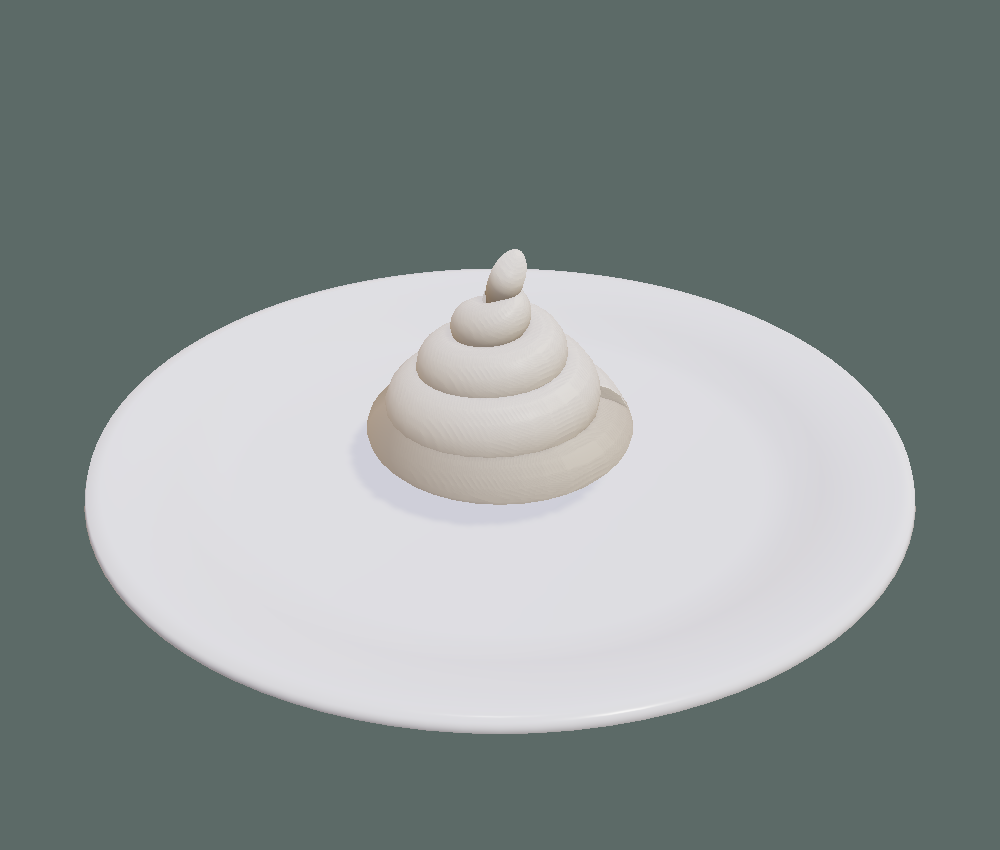
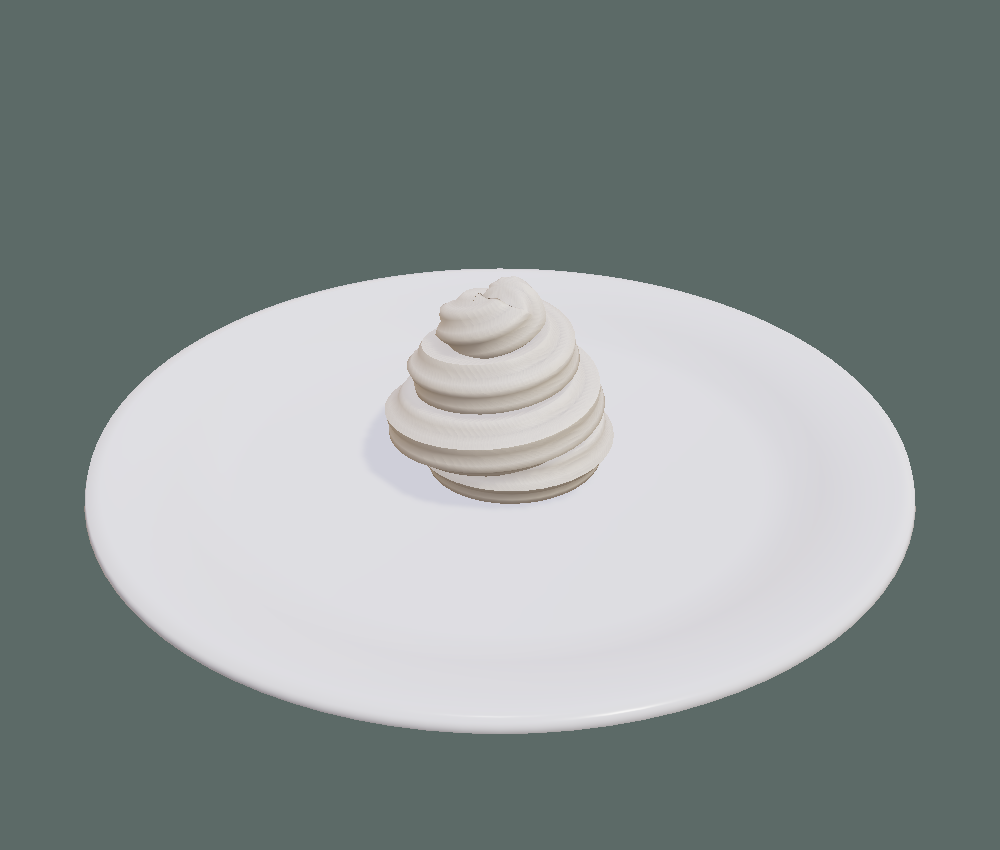
Make soft serve extrude, stack and slump realistically
The first version scaled a finished swirl up under the nozzle. This
makes the pour behave like a real machine and lets pours stack.

Extrusion: the swirl is a star-ridged rope of constant cross-section,
laid at constant flow along a flat base spiral and climbing coils. The
plate is raised to about 1 cm under the nozzle and circled beneath it,
then drops so the rope stretches and necks off into a peak. The lever
springs back and a motor hum plays while pouring.

Stacking: a new pour tops the most recent stack (up to 3 layers) unless
it is full or covered. Upper layers drape over the layers below and
continue their spiral. Each layer uses the same rope length as the base,
so every pour logged as "1 swirl" is the same amount. A swirl's layer is
derived from its saved position (exactly on an earlier swirl), so the
research data format is unchanged and reloads rebuild the same stack;
moves and removals re-derive layers the same way. The dispensing head
was raised 4 cm so a full stack clears the nozzle.

Slump: stacks sag down and spread out under added layers, preserving
volume and keeping layers in contact, as an overdamped creep. Finished
swirls also lean on their base when the plate accelerates (damped
shear, so the base stays on the plate).

Fixes from a critical review of the physics: removed an end-of-pour
plate whip, kept the stream attached through neck-off, replaced a rigid
tilt that sank bases into the plate, filtered acceleration spikes from
[…]

Changed region(s): [[0.341, 0.2753, 0.651, 0.6118], [0.527, 0.3671, 0.558, 0.3976]]

diff --git a/web/src/app.js b/web/src/app.js
@@ -1,4 +1,4 @@
-import {buildHall,makePlate,makeSoftServe,stationX} from './world.js';
+import {buildHall,makePlate,softServe,stationX} from './world.js';
 import {ResearchSession,download} from './research.js';
 import {Placement,sampleShape} from './placement.js';
 const B=BABYLON,V=(x,y,z)=>new B.Vector3(x,y,z),$=id=>document.getElementById(id);
@@ -17,12 +17,24 @@ class BuffetGame {
     const sun=new B.DirectionalLight('Afternoon sun',V(-.45,-1,.5),this.scene);sun.position=V(3,8,-3);sun.diffuse=new B.Color3(1,.95,.84);sun.intensity=2;
     this.sun=sun;sun.shadowFrustumSize=2.6;sun.autoUpdateExtends=false;sun.shadowMinZ=.1;sun.shadowMaxZ=20;
     this.shadows=new B.ShadowGenerator(2048,sun);this.shadows.usePercentageCloserFiltering=true;this.shadows.filteringQuality=B.ShadowGenerator.QUALITY_MEDIUM;this.shadows.bias=.00001;this.shadows.normalBias=.0001;this.shadows.setDarkness(.2);
-    const hall=buildHall(this.scene,this.foods.length);this.rig=new B.TransformNode('Participant plate rig',this.scene);this.rig.position.x=stationX(0);this.plate=makePlate(this.scene);this.plate.parent=this.rig;this.plate.position=V(0,.93,-.59);this.plate.setEnabled(false);
+    const hall=buildHall(this.scene,this.foods.length);this.rig=new B.TransformNode('Participant plate rig',this.scene);this.rig.position.x=stationX(0);this.plate=makePlate(this.scene);this.plate.parent=this.rig;this.shadows.addShadowCaster(this.plate);this.plate.position=V(0,.93,-.59);this.plate.setEnabled(false);
     const post=new B.FxaaPostProcess('Antialiasing',1,this.camera);
-    this.engine.runRenderLoop(()=>this.scene.render());window.addEventListener('resize',()=>{this.engine.resize();this.fitCamera();});
+    this.engine.runRenderLoop(()=>this.scene.render());
+    // Soft serve leans on its base when the plate accelerates: a heavily damped spring per swirl
+    // (~4 Hz, zeta .9) driving a shear, so the top lags while the base stays on the plate.
+    let lastPlate=V(0,0,0),samples=0;const plateAt=V(0,0,0),plateVelocity=V(0,0,0),plateAccel=V(0,0,0),step=V(0,0,0),local=V(0,0,0),toLocal=new B.Matrix();
+    this.scene.onBeforeRenderObservable.add(()=>{
+      const elapsed=this.engine.getDeltaTime()/1000,dt=Math.min(.05,Math.max(1/240,elapsed));this.plate.computeWorldMatrix(true).getTranslationToRef(plateAt);plateAt.subtractToRef(lastPlate,step);lastPlate.copyFrom(plateAt);
+      // Teleports and frame hitches restart the estimate instead of producing a spike.
+      if(elapsed>.1||step.length()>.25){samples=0;plateVelocity.setAll(0);plateAccel.setAll(0);}
+      else{step.scaleInPlace(1/dt);if(samples>=1){const a=step.subtract(plateVelocity).scaleInPlace(1/dt);if(a.length()>30)a.normalize().scaleInPlace(30);if(samples>=2)B.Vector3.LerpToRef(plateAccel,a,1-Math.exp(-dt/.03),plateAccel);}plateVelocity.copyFrom(step);samples++;}
+      for(const p of this.portions){const w=p.wobble;if(!w)continue;B.Matrix.RotationYToRef(-p.angle,toLocal);B.Vector3.TransformNormalToRef(plateAccel,toLocal,local);
+        for(let n=Math.ceil(dt*480),h=dt/n;n>0;n--){w.vx+=(-local.x*1.9-630*w.x-45*w.vx)*h;w.x+=w.vx*h;w.vz+=(-local.z*1.9-630*w.z-45*w.vz)*h;w.z+=w.vz*h;}
+        w.x=Math.max(-.08,Math.min(.08,w.x));w.z=Math.max(-.08,Math.min(.08,w.z));w.shear.setRowFromFloats(1,w.x,1,w.z,0);w.mesh.setPreTransformMatrix(w.shear);}
+    });window.addEventListener('resize',()=>{this.engine.resize();this.fitCamera();});
     for(let i=0;i<this.foods.length;i++){
       const f=this.foods[i];$('loading-text').textContent=`Preparing ${f.name.toLowerCase()} · ${i+1} of ${this.foods.length}`;
-      if(f.dispenser){this.swirl??=makeSoftServe(this.scene);this.dispensers.set(i,hall.dispenser(stationX(i),i,f.name));continue;}
+      if(f.dispenser){if(!this.softServe){this.softServe=softServe(this.scene);this.softServe.layer(this.softServe.layers-1);await this.softServe.material.forceCompilationAsync(this.softServe.layer(0).template);}this.dispensers.set(i,hall.dispenser(stationX(i),i,f.name));continue;}
       const model=await B.LoadAssetContainerAsync(`assets/food/${f.id}.glb`,this.scene);this.models.set(f.id,model);
       const station=new B.TransformNode(f.name+' station',this.scene);station.position=V(stationX(i),.946,0);
       for(let k=0;k<(f.id==='pizza'?4:6);k++){const root=this.spawn(f.id);root.parent=station;root.position=V((k%3-1)*.139,0,(Math.floor(k/3)-.5)*.17);root.rotation.y=k%2?.2:-.15;for(const mesh of root.getChildMeshes())mesh.metadata={station:i};}
@@ -30,12 +42,13 @@ class BuffetGame {
       hall.label(f.name,[stationX(i),.946,-.348],.221,.075,true);
     }
     for(const record of this.research.data.portions){const f=this.foods.find(f=>f.id===record.foodId);if(!f)throw new Error('A saved dish is missing from this study menu.');this.createPortion(f,record,false);}
+    if(this.settleStacks())this.placement.rebuild(this.portions);
     this.bind();this.fitCamera();await this.scene.whenReadyAsync();$('loading').hidden=true;
     if(this.finished){this.started=true;this.plate.setEnabled(true);await this.moveView(true,false);this.showCompletion();}else if(this.debugStation()!==null)this.begin(this.debugStation());else this.welcome();this.refresh();
     // Read-only diagnostics for repeatable canvas and placement checks.
     Object.defineProperty(window,'buffet',{value:{snapshot:()=>({station:this.station,started:this.started,moving:this.moving,pouring:!!this.pouring,plateView:this.plateView,finished:this.finished,selected:this.selected?.portionId,session:structuredClone(this.research.data),saved:this.research.saved,saveError:this.research.error,engine:'Babylon.js '+B.Engine.Version,meshes:this.scene.meshes.length,fps:this.engine.getFps(),portions:this.portions.map(p=>({id:p.portionId,food:p.foodId,x:p.x,y:p.y,z:p.z,extent:Math.max(...p.shape.map(s=>Math.hypot(p.x+s.ix*.003,p.z+s.iz*.003)))}))}),point:(name,index=0)=>this.project(name==='dish'?V(stationX(this.station),.97,0):name==='portion'&&this.portions[index]?this.portions[index].root.getAbsolutePosition().add(V(0,.025,0)):this.plate.getAbsolutePosition().add(V(0,.02,0)))}});
   }
-  spawn(id){const root=new B.TransformNode(id+' portion',this.scene);if(this.foods.find(f=>f.id===id)?.dispenser){const swirl=this.swirl.clone(id+' swirl');swirl.setEnabled(true);swirl.parent=root;swirl.isPickable=true;swirl.receiveShadows=true;this.shadows.addShadowCaster(swirl);return root;}const instance=this.models.get(id).instantiateModelsToScene(n=>n+' copy',false,{doNotInstantiate:true});for(const node of instance.rootNodes)node.parent=root;for(const mesh of root.getChildMeshes()){mesh.isPickable=true;mesh.receiveShadows=true;this.shadows.addShadowCaster(mesh);}return root;}
+  spawn(id,layer=0){const root=new B.TransformNode(id+' portion',this.scene);if(this.foods.find(f=>f.id===id)?.dispenser){const swirl=this.softServe.layer(layer).template.clone(id+' swirl');swirl.setEnabled(true);swirl.parent=root;swirl.isPickable=true;swirl.receiveShadows=true;this.shadows.addShadowCaster(swirl);return root;}const instance=this.models.get(id).instantiateModelsToScene(n=>n+' copy',false,{doNotInstantiate:true});for(const node of instance.rootNodes)node.parent=root;for(const mesh of root.getChildMeshes()){mesh.isPickable=true;mesh.receiveShadows=true;this.shadows.addShadowCaster(mesh);}return root;}
   project(point){const rect=this.canvas.getBoundingClientRect(),p=B.Vector3.Project(point,B.Matrix.Identity(),this.scene.getTransformMatrix(),this.camera.viewport.toGlobal(this.engine.getRenderWidth(),this.engine.getRenderHeight()));return {x:rect.x+p.x/this.engine.getRenderWidth()*rect.width,y:rect.y+p.y/this.engine.getRenderHeight()*rect.height};}
   fitCamera(){const aspect=this.canvas.clientWidth/this.canvas.clientHeight;this.camera.fov=2*Math.atan(Math.tan(.42)*Math.max(1,.85/aspect));if(!this.started){this.camera.position=V(0,1,0).add(V(0,4.1,-7.5).scale(Math.max(1,1.5/Math.max(.85,aspect))));this.camera.setTarget(V(0,1,0));}else if(this.plateView&&!this.moving){const pose=this.platePose(this.camera.fov,aspect);this.camera.position=pose.target;this.look=pose.look;this.camera.setTarget(this.look);}}
   get current(){return this.foods[this.station];}
@@ -61,37 +74,84 @@ class BuffetGame {
   debugStation(){const q=new URLSearchParams(location.search);if(!q.has('debug'))return null;const s=q.get('station')??'',i=this.foods.findIndex(f=>f.id===s);return i>=0?i:Math.max(0,Math.min(this.foods.length-1,(parseInt(s,10)||1)-1));}
   async begin(jump=null){if(this.started)return;this.close();this.started=true;this.moving=true;this.overview=true;this.research.record('begin');this.initAudio();this.refresh();await wait(jump===null?this.research.config.introSeconds*1000:0);if(jump!==null)this.station=jump;this.overview=false;this.moving=false;this.plate.setEnabled(true);this.research.record('station_view',this.current.id);await this.moveView();}
   async navigate(index){if(this.busy||index<0||index>=this.foods.length)return;this.selected=null;this.station=index;this.research.record('station_view',this.current.id);this.tone(510,.055);await this.moveView(false);}
+  // A soft-serve portion resting exactly on earlier ones (same spot and rotation) is the next layer
+  // of that stack. Deriving layers from saved positions keeps reloads identical to the live plate.
+  sameStack(a,b){return a.foodId===b.foodId&&Math.abs(a.x-b.x)<1e-6&&Math.abs(a.z-b.z)<1e-6&&Math.abs(a.angle-b.angle)<1e-6;}
+  stackLayer(p,before){return Math.min(this.softServe.layers-1,before.filter(o=>o!==p&&this.sameStack(o,p)).length);}
+  setLayer(p,layer){if(p.layer===layer)return;for(const child of p.root.getChildren())child.dispose();const swirl=this.softServe.layer(layer).template.clone(p.foodId+' swirl');swirl.setEnabled(true);swirl.parent=p.root;swirl.isPickable=true;swirl.receiveShadows=true;swirl.metadata={portion:p.portionId};this.shadows.addShadowCaster(swirl);p.root.rotation.y=0;p.shape=this.shapeFor(p.foodId+':'+layer,p.root,p.angle);p.root.rotation.y=p.angle;p.layer=layer;p.slump=1;p.wobble={mesh:swirl,shear:B.Matrix.Identity(),x:0,z:0,vx:0,vz:0};}
+  // Stacked soft serve slumps under the weight above it: the whole stack squashes down and spreads
+  // out, volume-preserving, so the layers stay in contact.
+  stackOf(p){return this.portions.filter(o=>o.layer!==undefined&&this.sameStack(o,p));}
+  slumpFor(n){return [1,.85,.74][Math.min(n,3)-1];}
+  applySlump(p,slump){p.wobble.mesh.scaling.copyFromFloats(1/Math.sqrt(slump),this.softServe.settle*slump,1/Math.sqrt(slump));p.slump=slump;}
+  reshape(p){const mesh=p.wobble.mesh;mesh.setPreTransformMatrix(B.Matrix.IdentityReadOnly);p.root.rotation.y=0;p.shape=this.shapeFor(`${p.foodId}:${p.layer}:${p.slump}`,p.root,p.angle);p.root.rotation.y=p.angle;}
+  settleStacks(){let changed=false;for(const p of this.portions){if(p.layer===undefined)continue;const slump=this.slumpFor(this.stackOf(p).length);if(p.slump!==slump){this.applySlump(p,slump);this.reshape(p);changed=true;}}return changed;}
+  relayer(){let changed=false;this.portions.forEach((p,i)=>{if(p.layer===undefined)return;const layer=this.stackLayer(p,this.portions.slice(0,i));if(layer!==p.layer){this.setLayer(p,layer);changed=true;}});return changed;}
   shapeFor(id,root,angle){const key=id+':'+angle;if(!this.shapeCache.has(key))this.shapeCache.set(key,sampleShape(root,angle));return this.shapeCache.get(key);}
-  createPortion(food,record=null,animate=true){
-    const root=this.spawn(food.id);root.parent=this.plate;const angle=record?.rotation??((this.portions.length*137.5)%360)*Math.PI/180;const shape=this.shapeFor(food.id,root,angle);root.rotation.y=angle;
-    const pose=record?.position||this.placement.fit(shape),p={portionId:record?.portionId||crypto.randomUUID().replaceAll('-',''),foodId:food.id,addedAt:record?.addedAt??this.research.elapsed,root,angle,shape,...pose};
-    root.position.copyFromFloats(p.x,p.y,p.z);for(const mesh of root.getChildMeshes())mesh.metadata={portion:p.portionId};this.portions.push(p);this.placement.occupy(p);
-    if(animate){p.animating=true;const from=V(0,.075,.4),to=root.position.clone(),start=performance.now();const frame=()=>{if(root.isDisposed()||!p.animating)return;const t=Math.min(1,(performance.now()-start)/430),s=t*t*(3-2*t);root.position=B.Vector3.Lerp(from,to,s);root.position.y+=Math.sin(t*Math.PI)*.045;if(t<1)requestAnimationFrame(frame);else p.animating=false;};frame();}
+  createPortion(food,record=null,animate=true,stack=null){
+    const angle=stack?.angle??record?.rotation??((this.portions.length*137.5)%360)*Math.PI/180,position=stack||record?.position;
+    const layer=food.dispenser?(stack?.layer??(position?this.stackLayer({foodId:food.id,x:position.x,z:position.z,angle},this.portions):0)):undefined;
+    const root=this.spawn(food.id,layer);root.parent=this.plate;const shape=this.shapeFor(food.dispenser?food.id+':'+layer:food.id,root,angle);root.rotation.y=angle;
+    const pose=position?{x:position.x,y:position.y,z:position.z}:this.placement.fit(shape),p={layer,portionId:record?.portionId||crypto.randomUUID().replaceAll('-',''),foodId:food.id,addedAt:record?.addedAt??this.research.elapsed,root,angle,shape,...pose};
+    root.position.copyFromFloats(p.x,p.y,p.z);const flight=animate&&this.flightClearance(shape,p);for(const mesh of root.getChildMeshes())mesh.metadata={portion:p.portionId};if(food.dispenser){p.slump=1;p.wobble={mesh:root.getChildMeshes()[0],shear:B.Matrix.Identity(),x:0,z:0,vx:0,vz:0};}this.portions.push(p);this.placement.occupy(p);
+    // If the usual low arc would pass through something already on the plate, lift above it,
+    // carry across and lower straight down onto the spot, which is clear by construction.
+    if(animate){p.animating=true;const from=V(0,.075,.4),to=root.position.clone(),high=flight>0?Math.max(from.y,to.y,flight)+.015:null,duration=high?Math.min(900,430+high*2500):430,start=performance.now(),ease=t=>{t=Math.min(1,Math.max(0,t));return t*t*(3-2*t);};
+      const frame=()=>{if(root.isDisposed()||!p.animating)return;const t=Math.min(1,(performance.now()-start)/duration);
+        if(high){root.position=B.Vector3.Lerp(from,to,ease((t-.3)/.4));root.position.y=t<.5?from.y+(high-from.y)*ease(t/.3):high+(to.y-high)*ease((t-.7)/.3);}
+        else{const s=ease(t);root.position=B.Vector3.Lerp(from,to,s);root.position.y+=Math.sin(t*Math.PI)*.045;}
+        if(t<1)requestAnimationFrame(frame);else p.animating=false;};frame();}
     return p;
   }
   add(){if(this.busy)return;if(this.portions.length>=this.research.config.maxPortions){this.toast('This plate has reached the study’s portion limit.');this.settleLever();return;}if(this.current.dispenser)return this.pour();const p=this.createPortion(this.current);this.research.setPortions(this.portions);this.research.record('portion_added',p.foodId,p.portionId);this.tone(920,.13);this.toast(this.current.name+' added · '+this.count(this.current.id)+' on your plate');this.refresh();}
   tween(ms,fn){return new Promise(resolve=>{const start=performance.now(),frame=()=>{const t=ms?Math.min(1,(performance.now()-start)/ms):1;fn(t*t*(3-2*t),t);if(t<1)requestAnimationFrame(frame);else resolve();};frame();});}
-  settleLever(){const lever=this.dispensers.get(this.station)?.lever;if(lever?.rotation.x){const from=lever.rotation.x;this.tween(180,s=>lever.rotation.x=from*(1-s));}}
-  // Slide the plate under the nozzle, pull the lever and pipe a swirl straight onto the chosen spot.
+  settleLever(){const lever=this.dispensers.get(this.station)?.lever;this.springs?.delete(lever?.rotation);if(lever?.rotation.x){const from=lever.rotation.x;this.tween(180,s=>lever.rotation.x=from*(1-s));}}
+  spring(target,key,from,to,hz=6,zeta=.5){this.springs??=new Map();const token={};this.springs.set(target,token);return new Promise(resolve=>{const w=2*Math.PI*hz;let x=from-to,v=0,last=performance.now();const frame=now=>{if(this.springs.get(target)!==token)return resolve();const dt=Math.min(.05,(now-last)/1000);last=now;for(let n=Math.max(1,Math.ceil(dt*480)),h=dt/n;n>0;n--){v+=(-w*w*x-2*zeta*w*v)*h;x+=v*h;}if(Math.abs(x)<1e-4&&Math.abs(v)<1e-3){target[key]=to;this.springs.delete(target);resolve();}else{target[key]=to+x;requestAnimationFrame(frame);}};requestAnimationFrame(frame);});}
+  motor(){if(!this.audio||!this.soundOn)return null;this.audio.resume();const a=this.audio,now=a.currentTime,o=a.createOscillator(),f=a.createBiquadFilter(),g=a.createGain();o.type='sawtooth';o.frequency.value=92;f.type='lowpass';f.frequency.value=320;g.gain.setValueAtTime(0,now);g.gain.linearRampToValueAtTime(.25,now+.08);o.connect(f);f.connect(g);g.connect(this.gain);o.start();return {stop(){const t=a.currentTime;g.gain.cancelScheduledValues(t);g.gain.setValueAtTime(g.gain.value,t);g.gain.linearRampToValueAtTime(0,t+.12);o.stop(t+.15);}};}
+  // As with a cone, the plate is raised to the nozzle and circled beneath it while the rope is
+  // extruded at constant volume flow; then the plate drops away and the rope necks off.
   async pour(){
-    const food=this.current,d=this.dispensers.get(this.station),home=V(stationX(this.station),0,0);this.pouring=true;this.refresh();
+    const food=this.current,d=this.dispensers.get(this.station),ss=this.softServe,home=V(stationX(this.station),0,0),lever=d.lever;this.pouring=true;this.refresh();
+    let flow=null,stream=null,final=null,motor=null;
     try{
-      const p=this.createPortion(food,null,false),swirl=p.root.getChildMeshes()[0],height=swirl.getBoundingInfo().maximum.y;swirl.scaling.setAll(1e-4);
+      // Pour onto the most recent stack if it has room and nothing else is resting on it.
+      const top=this.portions.filter((o,i)=>o.foodId===food.id&&!this.portions.slice(i+1).some(u=>this.sameStack(u,o))).at(-1);
+      const covered=top&&this.portions.some(o=>!this.sameStack(o,top)&&o.y>=top.y+.03&&Math.hypot(o.x-top.x,o.z-top.z)<.07);
+      const fits=top&&top.layer<ss.layers-1&&top.y+ss.layer(top.layer+1).top*ss.settle*top.slump<d.nozzle.y-.93-.02,stack=fits&&!covered?{x:top.x,y:top.y,z:top.z,angle:top.angle,layer:top.layer+1}:null;
+      const p=this.createPortion(food,null,false,stack),sw=ss.layer(p.layer),before=p.layer?top.slump:1,spread=1/Math.sqrt(before),stretch=p.layer?ss.settle*before:1;final=p.wobble.mesh;final.isVisible=false;if(p.layer)this.applySlump(p,before);
       this.research.setPortions(this.portions);this.research.record('portion_added',p.foodId,p.portionId);
-      const under=V(d.nozzle.x-p.x,0,d.nozzle.z+.59-p.z),lever=d.lever,pulled=-1.05,from=lever.rotation.x;
-      await this.tween(320,s=>this.rig.position=B.Vector3.Lerp(home,under,s));
-      await this.tween(170,s=>lever.rotation.x=from+(pulled-from)*s);this.tone(640,.09);
-      const drop=d.nozzle.y-this.plate.getAbsolutePosition().y,stream=B.MeshBuilder.CreateCylinder('Soft serve stream',{height:1,diameter:.02,tessellation:12},this.scene);stream.material=swirl.material;stream.parent=this.plate;stream.isPickable=false;
-      await this.tween(1150,(_,t)=>{const grow=Math.min(1,t*1.08),top=p.y+height*grow,length=Math.max(.001,drop-top);swirl.scaling.copyFromFloats(.6+.4*Math.min(1,grow*1.7),grow,.6+.4*Math.min(1,grow*1.7));swirl.rotation.y=(1-grow)**2*Math.PI*3;stream.scaling.y=t<.93?length:length*(1-(t-.93)/.07);stream.position.copyFromFloats(p.x,drop-stream.scaling.y/2,p.z);});
-      stream.dispose();swirl.scaling.setAll(1);swirl.rotation.y=0;
-      await this.tween(180,s=>lever.rotation.x=pulled*(1-s));
-      await this.tween(320,s=>this.rig.position=B.Vector3.Lerp(under,home,s));
+      // The lift is capped so other portions clear the dispensing head, and those near the swirl the
+      // lower nozzle. The stack being topped sits under the extrusion head by construction.
+      const maxLift=Math.max(0,Math.min(d.headBottom-.942,...this.portions.filter(o=>o!==p&&!this.sameStack(o,p)).map(o=>{const reach=Math.max(...o.shape.map(s=>Math.hypot(s.ix,s.iz)*.003)),near=Math.hypot(o.x-p.x,o.z-p.z)-reach<.031+.022+.01;return (near?d.nozzle.y:d.headBottom)-.012-.93-(o.y+Math.max(...o.shape.map(s=>s.high)));}))),turn=B.Matrix.RotationY(p.angle);
+      const pose=q=>{const {point,radius}=sw.at(q),h=B.Vector3.TransformCoordinates(point.multiplyByFloats(spread,stretch,spread),turn);const top=p.y+h.y+radius*.85,rise=Math.min(maxLift,Math.max(0,d.nozzle.y-.012-.93-top));return {rig:V(d.nozzle.x-p.x-h.x,rise,d.nozzle.z+.59-p.z-h.z),bottom:.93+rise+top,radius};};
+      const first=pose(0),pulled=-1.05;this.springs?.delete(lever.rotation);const from=lever.rotation.x;
+      await this.tween(450,s=>this.rig.position=B.Vector3.Lerp(home,first.rig,s));
+      await this.tween(200,s=>lever.rotation.x=from+(pulled-from)*s);motor=this.motor();
+      flow=sw.extrusion();flow.mesh.parent=p.root;flow.mesh.scaling.copyFromFloats(spread,stretch,spread);flow.mesh.isPickable=false;flow.mesh.receiveShadows=true;this.shadows.addShadowCaster(flow.mesh);
+      stream=B.MeshBuilder.CreateCylinder('Soft serve stream',{height:1,diameter:1,tessellation:16},this.scene);stream.material=ss.material;stream.isPickable=false;
+      const place=(bottom,radius)=>{const length=Math.max(.001,d.nozzle.y-bottom);stream.scaling.copyFromFloats(radius*1.9,length,radius*1.9);stream.position.copyFromFloats(d.nozzle.x,bottom+length/2,d.nozzle.z);};
+      await this.tween(Math.max(900,2000*sw.length/ss.layer(0).length),(_,t)=>{const q=sw.progress(t),now=pose(q);flow.set(q);this.rig.position.copyFrom(now.rig);place(now.bottom,now.radius);});
+      // Releasing the lever stops the flow. As the plate drops the rope stays attached to the tip,
+      // stretching thinner, then breaks and the remnant retracts into the nozzle.
+      motor?.stop();motor=null;this.spring(lever.rotation,'x',pulled,0);
+      flow.mesh.dispose();flow=null;final.isVisible=true;if(!p.layer){final.scaling.y=1;this.spring(final.scaling,'y',1,ss.settle,3,1.1);}
+      const last=pose(sw.end),down=last.rig.clone();down.y=Math.max(0,down.y-.035);
+      await this.tween(260,(s,t)=>{this.rig.position=B.Vector3.Lerp(last.rig,down,s);const tip=last.bottom-(last.rig.y-this.rig.position.y);if(t<.4)place(tip,last.radius*(1-t*1.5));else{const k=(t-.4)/.6;place(tip+(d.nozzle.y-tip)*k,last.radius*.4*(1-k));}});
+      stream.dispose();stream=null;
+      // With the new layer's weight on it, the stack creeps into its slump (overdamped, no bounce).
+      const members=this.stackOf(p),after=this.slumpFor(members.length),slumping=after===before?null:this.tween(1100,s=>{for(const m of members)this.applySlump(m,before+(after-before)*s);});
+      // Return along the reverse of the lift path, lowering only as the plate leaves the machine.
+      await this.tween(420,s=>this.rig.position=B.Vector3.Lerp(down,home,s));
+      if(slumping){await slumping;for(const m of members)this.reshape(m);this.placement.rebuild(this.portions);}
       this.tone(920,.13);this.toast(food.name+' added · '+this.count(food.id)+' on your plate');
-    }finally{this.rig.position=home;this.pouring=false;this.refresh();}
+    }catch(error){console.error(error);this.toast(error.message);}finally{flow?.mesh.dispose();stream?.dispose();motor?.stop();if(final)final.isVisible=true;this.rig.position=home;this.pouring=false;this.refresh();}
   }
+  // Height the portion's base would need along the usual tray-to-plate arc to clear what is already
+  // on the plate; returns 0 when that arc is already clear. Must run before the portion occupies the grid.
+  flightClearance(shape,to){let need=0;for(let i=1;i<24;i++){const t=i/24,s=t*t*(3-2*t),x=to.x*s,z=.4+(to.z-.4)*s,arc=.075+(to.y-.075)*s+Math.sin(t*Math.PI)*.045;if(Math.hypot(x,z)<.16){const h=this.placement.clearAt(shape,x,z);if(h>arc)need=Math.max(need,h);}}return need;}
   count(id){return this.portions.filter(p=>p.foodId===id).length;}
-  repack(exclude=null){this.placement.reset();for(const p of this.portions.filter(p=>p!==exclude).sort((a,b)=>a.y-b.y)){p.animating=false;p.y=this.placement.heightAt(p.shape,p.x,p.z);p.root.position.copyFromFloats(p.x,p.y,p.z);this.placement.occupy(p);}}
-  remove(portion){if(this.busy||!this.research.config.allowRemoval||!portion)return;this.portions.splice(this.portions.indexOf(portion),1);portion.root.dispose();this.selected=null;this.repack();this.research.setPortions(this.portions);this.research.record('portion_removed',portion.foodId,portion.portionId);this.refresh();}
+  repack(exclude=null){this.placement.reset();const packed=[];for(const p of this.portions.filter(p=>p!==exclude).sort((a,b)=>a.y-b.y||(a.layer??0)-(b.layer??0))){p.animating=false;const base=p.layer&&packed.find(o=>o.layer===0&&this.sameStack(o,p));p.y=base?base.y:this.placement.heightAt(p.shape,p.x,p.z);packed.push(p);p.root.position.copyFromFloats(p.x,p.y,p.z);this.placement.occupy(p);}}
+  remove(portion){if(this.busy||!this.research.config.allowRemoval||!portion)return;this.portions.splice(this.portions.indexOf(portion),1);portion.root.dispose();this.selected=null;this.relayer();this.settleStacks();this.repack();this.research.setPortions(this.portions);this.research.record('portion_removed',portion.foodId,portion.portionId);this.refresh();}
   async togglePlate(){if(this.busy)return;this.selected=null;this.research.record(this.plateView?'dish_view':'plate_view',this.current.id);await this.moveView(!this.plateView);}
   toast(text){$('toast').textContent=text;$('toast').classList.add('visible');clearTimeout(this.toastTimer);this.toastTimer=setTimeout(()=>$('toast').classList.remove('visible'),2700);}
   refresh(){
@@ -130,10 +190,10 @@ class BuffetGame {
     $('fullscreen').onclick=async()=>{try{if(document.fullscreenElement)await document.exitFullscreen();else await document.documentElement.requestFullscreen();}catch{this.toast('Full screen is not available in this browser.');}};
     window.addEventListener('keydown',e=>{if(this.busy||e.repeat||e.altKey||e.ctrlKey||e.metaKey||e.target.matches('input,textarea,select')||(e.key===' '&&e.target.closest('button')))return;switch(e.key){case'ArrowLeft':e.preventDefault();this.navigate(this.station-1);break;case'ArrowRight':e.preventDefault();this.navigate(this.station+1);break;case' ':e.preventDefault();if(!this.plateView)this.add();break;case'p':case'P':this.togglePlate();break;}});
     this.canvas.addEventListener('pointerdown',event=>{if(this.busy||event.button!==0)return;const hit=this.pick(event),meta=hit?.pickedMesh?.metadata;this.press={id:event.pointerId,x:event.clientX,y:event.clientY,meta,drag:false};if(this.plateView&&meta?.portion){this.selected=this.portions.find(p=>p.portionId===meta.portion);this.refresh();}this.canvas.setPointerCapture(event.pointerId);});
-    this.canvas.addEventListener('pointermove',event=>{if(!this.press||this.press.id!==event.pointerId)return;if(Math.hypot(event.clientX-this.press.x,event.clientY-this.press.y)>9)this.press.drag=true;if(this.press.drag&&this.press.meta?.station===this.station)this.canvas.style.cursor='grabbing';const lever=this.press.meta?.station===this.station&&!this.plateView&&!this.busy&&this.dispensers.get(this.station)?.lever;if(lever)lever.rotation.x=-Math.min(1,Math.max(0,event.clientY-this.press.y)/110)*1.05;});
+    this.canvas.addEventListener('pointermove',event=>{if(!this.press||this.press.id!==event.pointerId)return;if(Math.hypot(event.clientX-this.press.x,event.clientY-this.press.y)>9)this.press.drag=true;if(this.press.drag&&this.press.meta?.station===this.station)this.canvas.style.cursor='grabbing';const lever=this.press.meta?.station===this.station&&!this.plateView&&!this.busy&&this.dispensers.get(this.station)?.lever;if(lever)this.springs?.delete(lever.rotation);if(lever)lever.rotation.x=-Math.min(1,Math.max(0,event.clientY-this.press.y)/110)*1.05;});
     this.canvas.addEventListener('pointerup',event=>{const press=this.press;this.press=null;this.canvas.style.cursor='';if(!press||press.id!==event.pointerId||this.busy)return;const point=this.planePoint(event),onPlate=point&&Math.hypot(point.x,point.z)<.145;
       if(press.meta?.station===this.station&&!this.plateView){if(this.current.dispenser)this.add();else if(press.drag?onPlate:this.pick(event)?.pickedMesh?.metadata?.station===this.station)this.add();}
-      else if(press.meta?.portion&&this.plateView&&press.drag&&onPlate){const p=this.portions.find(p=>p.portionId===press.meta.portion);p.animating=false;this.repack(p);Object.assign(p,this.placement.fit(p.shape,point));p.root.position.copyFromFloats(p.x,p.y,p.z);this.placement.occupy(p);this.research.setPortions(this.portions);this.research.record('portion_moved',p.foodId,p.portionId);this.fitCamera();this.refresh();}
+      else if(press.meta?.portion&&this.plateView&&press.drag&&onPlate){const p=this.portions.find(p=>p.portionId===press.meta.portion);p.animating=false;this.repack(p);if(p.layer)this.setLayer(p,0);Object.assign(p,this.placement.fit(p.shape,point));p.root.position.copyFromFloats(p.x,p.y,p.z);this.placement.occupy(p);if(this.relayer()|this.settleStacks())this.repack();this.research.setPortions(this.portions);this.research.record('portion_moved',p.foodId,p.portionId);this.fitCamera();this.refresh();}
     });this.canvas.addEventListener('pointercancel',()=>{this.press=null;this.canvas.style.cursor='';if(!this.pouring)this.settleLever();});
   }
 }

diff --git a/web/src/world.js b/web/src/world.js
@@ -77,14 +77,14 @@ export function buildHall(scene, stations=15) {
     const part=(mesh,mat,p)=>{mesh.material=mat;mesh.position.copyFrom(p);mesh.receiveShadows=true;mesh.isPickable=true;mesh.metadata={station:i};parts.push(mesh);return mesh;};
     const block=(p,s,m)=>part(B.MeshBuilder.CreateBox('Soft serve machine',{width:s[0],height:s[1],depth:s[2]},scene),m,V(...p));
     const rod=(p,h,r,m,n=16)=>part(B.MeshBuilder.CreateCylinder('Soft serve fitting',{height:h,diameter:r*2,tessellation:n},scene),m,V(...p));
-    block([x,T+.27,.25],[.38,.54,.4],brushed);block([x,T+.546,.25],[.39,.012,.41],steel);for(const s of [-1,1])rod([x+s*.085,T+.577,.28],.05,.07,charcoal,24);
-    block([x,T+.2,.047],[.3,.26,.006],charcoal);label(name.toUpperCase(),[x,T+.2,.042],.28,.055);
+    block([x,T+.27,.28],[.38,.54,.4],brushed);block([x,T+.546,.28],[.39,.012,.41],steel);for(const s of [-1,1])rod([x+s*.085,T+.577,.31],.05,.07,charcoal,24);
+    block([x,T+.1,.077],[.3,.16,.006],charcoal);label(name.toUpperCase(),[x,T+.13,.072],.28,.055);for(const s of [-1,1])block([x+s*.1,T+.065,.073],[.016,.016,.004],s<0?glow:enamel);
     // Dispensing head overhangs the counter so the plate can slide beneath the star nozzle.
-    block([x,1.33,-.115],[.26,.13,.33],steel);rod([x,1.245,-.22],.04,.022,steel);rod([x,1.215,-.22],.02,.014,dark,8);block([x,1.401,-.262],[.06,.012,.03],dark);
-    const lever=new B.TransformNode('Soft serve lever',scene);lever.position=V(x,1.407,-.265);
+    block([x,1.265,-.1],[.26,.13,.36],steel);rod([x,1.18,-.22],.04,.022,steel);rod([x,1.15,-.22],.02,.014,dark,8);block([x,1.336,-.262],[.06,.012,.03],dark);
+    const lever=new B.TransformNode('Soft serve lever',scene);lever.position=V(x,1.342,-.265);
     const arm=rod([0,.064,-.012],.13,.009,steel);arm.rotation.x=-.18;arm.parent=lever;
     const knob=part(B.MeshBuilder.CreateSphere('Soft serve lever knob',{diameter:.038,segments:12},scene),enamel,V(0,.128,-.023));knob.parent=lever;
-    return {lever,nozzle:V(x,1.205,-.22),parts};
+    return {lever,nozzle:V(x,1.14,-.22),headBottom:1.2,parts};
   }
   return {label,dispenser};
 }
@@ -95,14 +95,82 @@ export function makePlate(scene) {
   const m=new B.PBRMaterial('Glazed white porcelain',scene);m.albedoColor=new B.Color3(.96,.96,.93);m.metallic=0;m.roughness=.22;plate.material=m;plate.receiveShadows=true;plate.isPickable=true;plate.metadata={plate:true};return plate;
 }
 
-// Vanilla soft-serve swirl: a tapering conical helix on a soft base, origin at its bottom.
-export function makeSoftServe(scene) {
-  const n=96,turns=3.2,path=[];
-  for(let i=0;i<=n;i++){const t=i/n,a=t*turns*2*Math.PI,r=.03*(1-t)**.85;path.push(V(Math.cos(a)*r,.014+t*.05,Math.sin(a)*r));}
-  const tube=B.MeshBuilder.CreateTube('swirl',{path,radiusFunction:i=>.0025+.0145*(1-i/n*.72),tessellation:18,cap:B.Mesh.CAP_ALL},scene);
-  const base=B.MeshBuilder.CreateSphere('swirl base',{diameter:1,segments:16},scene);base.scaling.copyFromFloats(.096,.03,.096);base.position.y=.015;
-  const tip=B.MeshBuilder.CreateSphere('swirl tip',{diameter:1,segments:10},scene);tip.scaling.copyFromFloats(.012,.024,.012);tip.position.copyFrom(path[n].add(V(.002,.006,0)));tip.rotation.z=-.35;
-  const swirl=B.Mesh.MergeMeshes([tube,base,tip],true,true);swirl.name='Vanilla soft serve';
-  const m=new B.PBRMaterial('Vanilla soft serve',scene);m.albedoColor=B.Color3.FromHexString('#f7e2b4');m.metallic=0;m.roughness=.42;swirl.material=m;
-  swirl.setEnabled(false);return swirl;
+// Soft serve as an extruded, star-ridged rope of constant cross-section. Only the last few
+// percent taper, where the rope is stretched as the plate pulls away, leaving a peak.
+const SWIRL_POINTS=180,SWIRL_SIDES=32,SWIRL_SETTLE=.96,SWIRL_ROPE=.0128,SWIRL_LAYERS=3,SWIRL_CELL=.003;
+export function softServe(scene) {
+  const material=new B.PBRMaterial('Vanilla soft serve',scene);material.albedoColor=B.Color3.FromHexString('#f7e2b4');material.metallic=0;material.roughness=.42;
+  const T=SWIRL_SIDES,rings=SWIRL_POINTS+2,layers=[];
+  function rope(name,points,radii,endAngle){
+    const n=points.length,path=new B.Path3D(points),normals=path.getNormals(),binormals=path.getBinormals();
+    // A fixed nozzle extrudes at constant flow and cross-section, so the head advances at constant
+    // arc-length speed; progress is parameterised by length along the rope.
+    const length=[0];for(let i=1;i<n;i++)length.push(length[i-1]+B.Vector3.Distance(points[i],points[i-1]));
+    const total=length.at(-1);
+    function at(q){const i=Math.min(n-2,Math.floor(q)),f=q-i;return {point:B.Vector3.Lerp(points[i],points[i+1],f),radius:radii[i]+(radii[i+1]-radii[i])*f,index:i};}
+    function progress(t){const v=Math.min(1,Math.max(0,t))*total;let i=0;while(i<n-2&&length[i+1]<v)i++;return Math.min(n-1,i+(v-length[i])/Math.max(1e-9,length[i+1]-length[i]));}
+    // Ring 0 and the last ring are zero-radius caps. Rings past the extrusion head collapse onto it.
+    function fill(positions,q){
+      const head=at(q),qi=Math.floor(q);let o=0;
+      for(let k=0;k<rings;k++){
+        const i=k-1;let c=head.point,r=0,f=head.index;
+        if(k===0){c=points[0];f=0;}
+        else if(k===rings-1){if(q>=n-1){c=points.at(-1);f=n-1;}}
+        else if(i<=qi){c=points[i];r=radii[i];f=i;}
+        else if(i===qi+1)r=head.radius;
+        const a=normals[f],b=binormals[f];
+        for(let j=0;j<=T;j++){const phi=j/T*2*Math.PI,ridge=r*(1+.09*Math.cos(8*phi)),cs=Math.cos(phi),sn=Math.sin(phi);
+          positions[o++]=c.x+(a.x*cs+b.x*sn)*ridge;positions[o++]=c.y+(a.y*cs+b.y*sn)*ridge*.85;positions[o++]=c.z+(a.z*cs+b.z*sn)*ridge;}
+      }
+      return positions;
+    }
+    const indices=[];for(let k=0;k<rings-1;k++)for(let j=0;j<T;j++){const a=k*(T+1)+j,c=a+T+1;indices.push(a,c,a+1,a+1,c,c+1);}
+    const positions=fill(new Float32Array(rings*(T+1)*3),n-1),vertexNormals=[];B.VertexData.ComputeNormals(positions,indices,vertexNormals);
+    // Winding depends on Path3D's frame handedness; flip if normals point into the rope.
+    const v=3*(T+1)*3,c=points[2];
+    if((positions[v]-c.x)*vertexNormals[v]+(positions[v+1]-c.y)*vertexNormals[v+1]+(positions[v+2]-c.z)*vertexNormals[v+2]<0){for(let t=0;t<indices.length;t+=3)[indices[t+1],indices[t+2]]=[indices[t+2],indices[t+1]];vertexNormals.length=0;B.VertexData.ComputeNormals(positions,indices,vertexNormals);}
+    const data=new B.VertexData();data.positions=positions;data.indices=indices;data.normals=vertexNormals;
+    const template=new B.Mesh(name,scene);data.applyToMesh(template,false);template.material=material;template.scaling.y=SWIRL_SETTLE;template.setEnabled(false);
+    function extrusion(){
+      const mesh=new B.Mesh(name+' extrusion',scene),live=fill(new Float32Array(positions.length),0),normals=new Float32Array(positions.length),start=new B.VertexData();
+      start.positions=live;start.indices=indices;start.normals=normals;start.applyToMesh(mesh,true);mesh.material=material;mesh.alwaysSelectAsActiveMesh=true;
+      return {mesh,set(q){fill(live,q);mesh.updateVerticesData(B.VertexBuffer.PositionKind,live);normals.fill(0);B.VertexData.ComputeNormals(live,indices,normals);mesh.updateVerticesData(B.VertexBuffer.NormalKind,normals);}};
+    }
+    let top=0;for(let i=1;i<positions.length;i+=3)top=Math.max(top,positions[i]);
+    return {template,extrusion,at,progress,end:n-1,length:total,top,positions,endAngle};
+  }
+  // Layer 0: a flat spiral fills the base, then coils climb and narrow, each resting on the one below.
+  function base(){
+    const points=[],radii=[],turns=4.1,flat=1.15,r0=.031,rt=SWIRL_ROPE;
+    for(let i=0;i<SWIRL_POINTS;i++){
+      const u=i/(SWIRL_POINTS-1)*turns,a=u*2*Math.PI;let r,y,w=rt;
+      if(u<flat){r=.004+(r0-.004)*u/flat;y=rt*.8;}
+      else{const s=(u-flat)/(turns-flat),end=Math.min(1,(1-s)/.08);r=r0*(1-s)**.8;w=rt*(.25+.75*Math.sqrt(end));y=rt*.8+.056*s**.85+(1-end)*.006;}
+      points.push(V(Math.cos(a)*r,y,Math.sin(a)*r));radii.push(w);
+    }
+    return rope('Vanilla soft serve',points,radii,turns*2*Math.PI);
+  }
+  // Upper layers continue the spiral where the layer below ended, starting wide enough to wrap the
+  // shoulders of the mound. Each layer's rope is as long as the base's, so every pour is the same
+  // amount. Each rope point comes to rest on the highest thing beneath its footprint: the layers
+  // below, then its own earlier coils once the head has moved on. The result is a deterministic
+  // shape for each layer in the portion's frame.
+  function draped(k){
+    const height=new Map(),key=(x,z)=>x*1000+z,C=SWIRL_CELL,rt=SWIRL_ROPE;
+    for(let l=0;l<k;l++){const p=layers[l].positions;for(let i=0;i<p.length;i+=3){const id=key(Math.round(p[i]/C),Math.round(p[i+2]/C));height.set(id,Math.max(height.get(id)??0,p[i+1]));}}
+    const footprint=(x,z,w,fn)=>{const r=Math.ceil(w/C);for(let dz=-r;dz<=r;dz++)for(let dx=-r;dx<=r;dx++){const cx=Math.round(x/C)+dx,cz=Math.round(z/C)+dz,d=Math.hypot(cx*C-x,cz*C-z);if(d<w)fn(key(cx,cz),.85*Math.sqrt(w*w-d*d));}};
+    const r0=.042-.005*(k-1),turns=Math.max(1.5,layers[0].length*1.8/(2*Math.PI*r0)),start=layers[k-1].endAngle,points=[],radii=[],pending=[];let arc=0,last=null;
+    for(let i=0;i<SWIRL_POINTS;i++){
+      const s=i/(SWIRL_POINTS-1),a=start+s*turns*2*Math.PI,r=r0*(1-s)**.8,end=Math.min(1,(1-s)/.1),w=rt*(.25+.75*Math.sqrt(end)),x=Math.cos(a)*r,z=Math.sin(a)*r;
+      if(last)arc+=Math.hypot(x-last.x,z-last.z);
+      while(pending.length&&arc-pending[0].arc>2.2*rt){const q=pending.shift();footprint(q.x,q.z,q.w,(id,h)=>height.set(id,Math.max(height.get(id)??0,q.y+h)));}
+      let y=0;footprint(x,z,w,(id,h)=>y=Math.max(y,(height.get(id)??0)+h));
+      y-=.12*w;if(last)y=Math.max(y,last.y-.003);y+=(1-end)*.006;   // soft rope nestles slightly into what it rests on
+      last={x,z,y};pending.push({x,z,y,w,arc});points.push(V(x,y,z));radii.push(w);
+    }
+    return rope('Vanilla soft serve layer '+k,points,radii,start+turns*2*Math.PI);
+  }
+  function layer(k){for(let l=layers.length;l<=k;l++)layers.push(l?draped(l):base());return layers[k];}
+  layer(0);
+  return {material,layer,layers:SWIRL_LAYERS,settle:SWIRL_SETTLE};
 }

diff --git a/web/src/placement.js b/web/src/placement.js
@@ -31,6 +31,8 @@ export class Placement {
     for(const v of shape)height=Math.max(height,this.grid[(v.iz+dz+MID)*N+v.ix+dx+MID]-v.low);
     return height+.0002;
   }
+  // Like heightAt, but tolerates positions partly off the grid (used to plan flight paths).
+  clearAt(shape,x,z){const dx=Math.round(x/CELL),dz=Math.round(z/CELL);let height=-Infinity;for(const v of shape){const ix=v.ix+dx+MID,iz=v.iz+dz+MID;if(ix>=0&&ix<N&&iz>=0&&iz<N)height=Math.max(height,this.grid[iz*N+ix]-v.low);}return height;}
   fit(shape,preferred){
     let best=null,score=Infinity;
     for(let z=-44;z<=44;z+=2)for(let x=-44;x<=44;x+=2){
